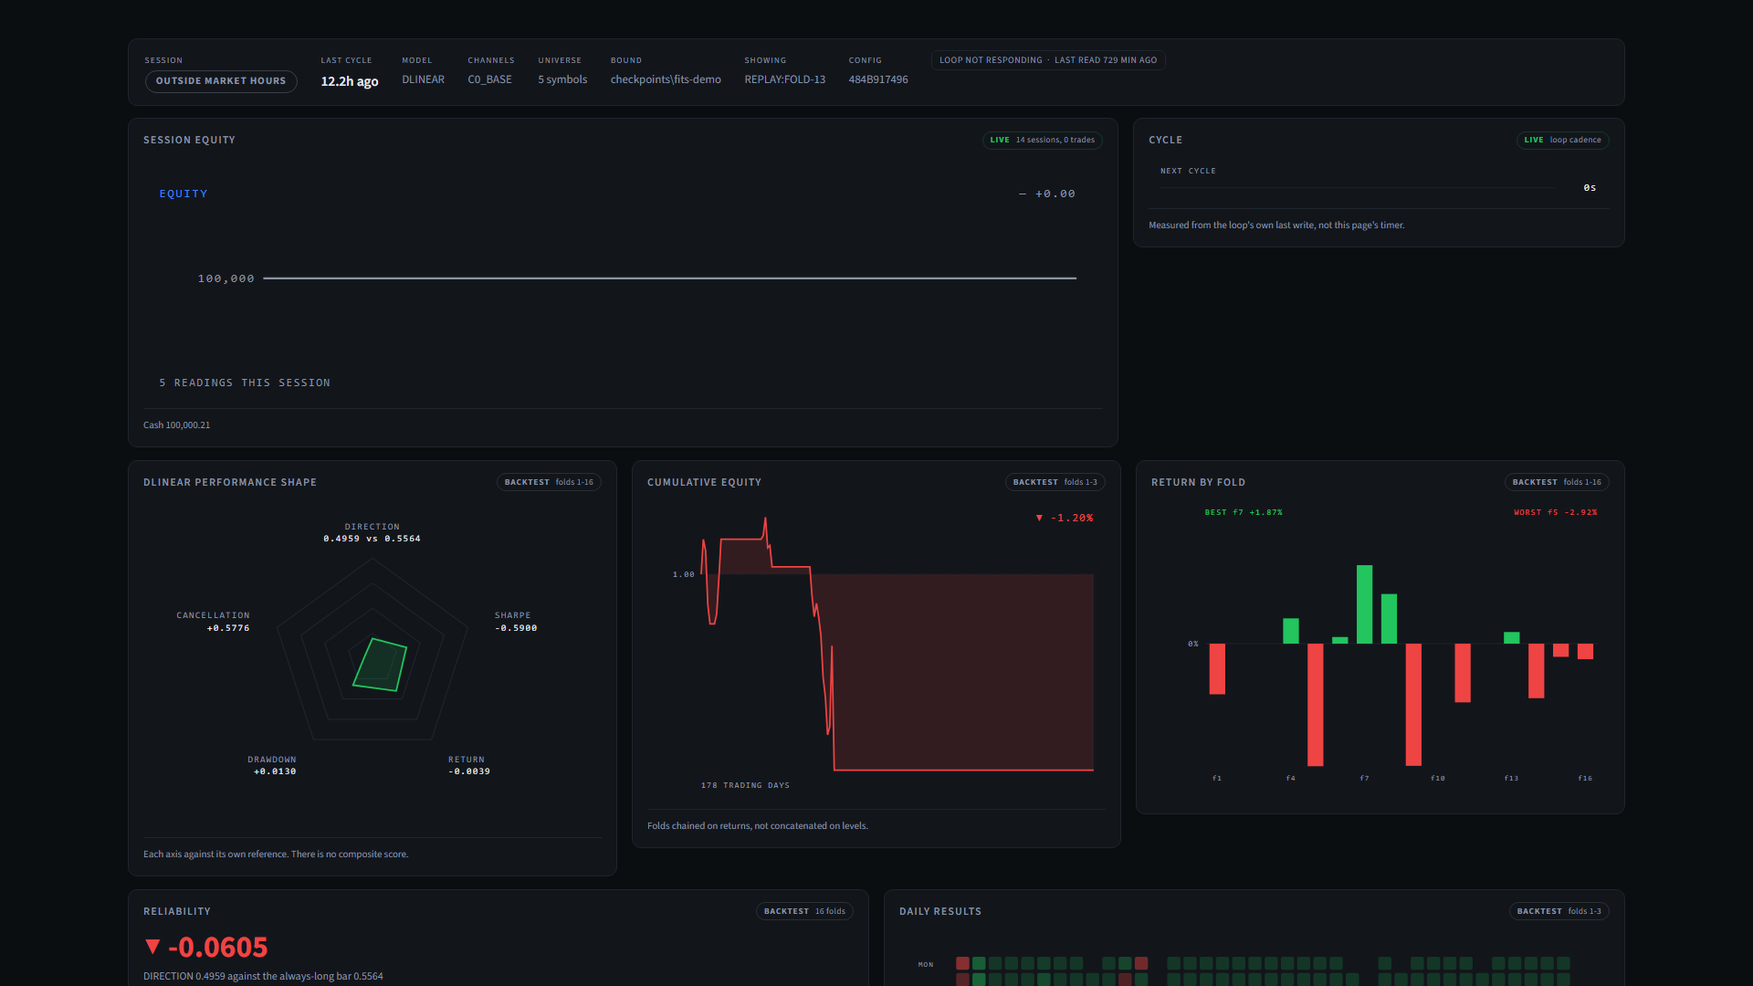
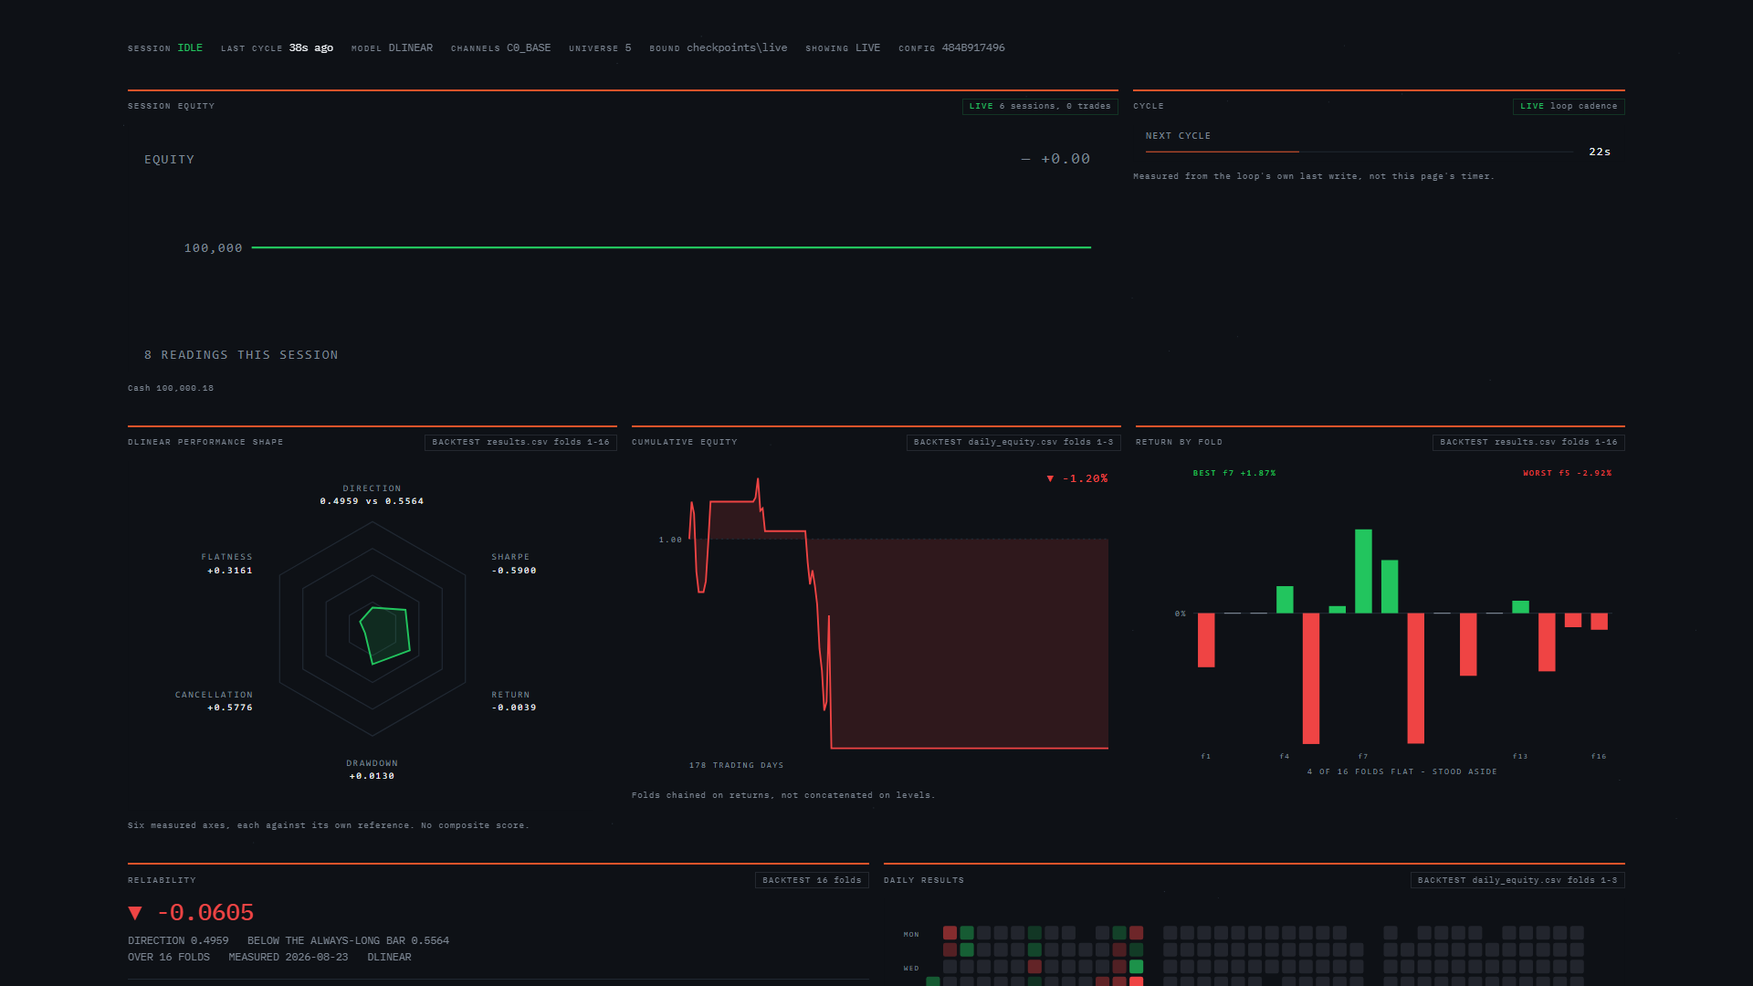
GB-63c region 8: the captures, against a session that actually ran
Last of eight. Six frames at 1920x1080, five against checkpoints/live during a
real session on 1 Sep that decided bar 2026-08-31, one against a FITS replay
because the deployed arm is DLinear and does not produce a frequency
decomposition.

The activity region gets a frame of its own. It is the reason this variant was
chosen and it was below the fold in the overview - a signature feature that
goes unphotographed is a feature the report does not have.

THE CAPTURE FOUND A PALETTE VIOLATION THE TESTS DID NOT.

The forecast charts were drawing their price line and their forecast in three
blue ramp colours. The ramp encodes which channel and which band; a price line
and a forecast are neither. The boundary guard checked the radar and the fold
chart and had never looked at forecast_svg - a guard whose substrate was not
the thing being claimed, which is the FakeBroker shape again and the third time
in this rebuild that looking at the output caught what the suite did not.

Price is now DIM and the forecast is dashed in the direction it predicts, green
or red. The guard now ENUMERATES every chart builder the module exports and
fails on an unclassified one, so a new chart must be assigned a side rather
than defaulting to unchecked. `_svg` and spectral's three builders are
classified explicitly rather than skipped.

test_status_colour_never_enters_a_data_encoding_chart is NARROWED, not
loosened. Under the card language "no status colour in any chart" meant every
[…]

diff --git a/tests/dashboard/test_app.py b/tests/dashboard/test_app.py
@@ -321,19 +321,31 @@ def data_surfaces() -> dict[str, str]:
     }
 
 
-def test_status_colour_never_enters_a_data_encoding_chart() -> None:
-    """**Rule one of the three-role palette** (DECISIONS, 27 Aug 2026).
+def test_status_colour_never_enters_a_ramp_chart() -> None:
+    """**Narrowed in GB-63c, and narrowed rather than loosened.**
 
-    Chrome labels, the ramp encodes data, status says gain or loss. Inside a chart the
-    ramp already owns meaning, so a third family there would make a reader ask what green
-    encodes on an axis that is spending colour on frequency. This replaces a test that
-    banned the *strings* "green" and "red" - which would have passed a chart drawn in
-    `#2E9E6B`, since the ban was on the words rather than on the rule.
+    The rule was once "status colour never enters a data-encoding chart", and under the
+    card language that meant every chart. Under Vermillion Slate the ramp survives in
+    exactly two surfaces and green-and-red is the primary language everywhere else - so a
+    forecast dashed in GAIN is now correct rather than a violation, and a test still
+    forbidding it would have to be deleted to let the design through.
+
+    What survives is the part that was always the point: **the two families must not meet
+    inside one chart.** Where the ramp encodes which band, status colour would make a
+    reader ask what green means on an axis already spending colour on frequency.
+    `test_the_ramp_appears_in_no_chart_outside_attribution_and_spectral` holds the other
+    direction.
     """
-    for name, surface in data_surfaces().items():
-        lowered = surface.lower()
-        found = [c for c in app.STATUS_COLOURS if c.lower() in lowered]
-        assert not found, f"{name} encodes data and contains status colour {found}"
+    ramp_charts = {
+        "contributions": app.contributions_svg(
+            an_attribution(close_logret=0.08, rsi14=-0.06)
+        ),
+        "spectral": app.spectral_panel(a_spectral_attribution()),
+    }
+
+    for name, surface in ramp_charts.items():
+        found = [c for c in app.STATUS_COLOURS if c.lower() in surface.lower()]
+        assert not found, f"{name} encodes with the ramp and took status colour {found}"
 
 
 def test_the_data_chart_rule_can_fail(monkeypatch) -> None:
@@ -1806,3 +1818,87 @@ def test_the_forecast_region_states_that_the_bar_advances_once_per_day() -> None
 
     assert "Last completed bar" in source
     assert "advances once per trading day" in source
+
+
+def test_the_ramp_appears_in_no_chart_outside_attribution_and_spectral() -> None:
+    """**The boundary guard, with the hole closed.**
+
+    The earlier version checked the radar and the fold chart, and the forecast chart -
+    which was drawing its price line and its forecast in three ramp colours - was not in
+    the list. A guard that names its surfaces will always be one surface behind the code;
+    this one enumerates every chart builder the module exports and fails on an
+    unclassified one, so a new chart must be assigned a side rather than defaulting to
+    unchecked.
+    """
+    import pandas as pd
+
+    history = pd.Series([100.0, 101.0, 99.5, 102.0, 103.5])
+    reference = app.reference_rows(app.load_results())
+    daily = app.load_daily_equity()
+    row = app.PositionRow(
+        "AAPL", 1.0, 100.0, 97.0, True, stop_loss=94.0, take_profit=112.0
+    )
+
+    ramp_is_meaning = {
+        "contributions_svg": app.contributions_svg(
+            an_attribution(close_logret=0.08, rsi14=-0.06)
+        ),
+        "spectral_panel": app.spectral_panel(a_spectral_attribution()),
+    }
+    ramp_is_trespass = {
+        "forecast_svg": app.forecast_svg(
+            history, app.price_path(103.5, [0.01]), Thresholds(lower=0.004), "AAPL"
+        ),
+        "equity_svg": _equity([100.0, 101.0, 99.0]),
+        "countdown_svg": app.countdown_svg(30, 60),
+        "sparkline_svg": app.sparkline_svg(history, row),
+        "radar_svg": app.radar_svg(reference, "dlinear") if not reference.empty else "",
+        "fold_bars_svg": (
+            app.fold_bars_svg(reference, "dlinear") if not reference.empty else ""
+        ),
+        "cumulative_equity_svg": app.cumulative_equity_svg(daily, "dlinear"),
+        "calendar_svg": app.calendar_svg(daily, "dlinear"),
+    }
+
+    # Every chart builder the module exports is on one side or the other. A new one that
+    # is on neither fails here, which is the point: unclassified must not mean unchecked.
+    charted = {name for name in dir(app) if name.endswith("_svg")} | {"spectral_panel"}
+    classified = (
+        set(ramp_is_meaning)
+        | set(ramp_is_trespass)
+        # Spectral's three builders are one surface: `spectral_panel` above renders them
+        # together, so checking each would assert the same thing three times.
+        | {"spectral_svg", "gain_phase_svg", "response_svg"}
+        # `_svg` is the shared wrapper every chart is built with, not a chart.
+        | {"_svg"}
+    )
+    assert (
+        charted <= classified
+    ), f"unclassified chart builders: {sorted(charted - classified)}"
+
+    for name, svg in ramp_is_meaning.items():
+        assert any(c in svg for c in app.RAMP), f"{name} lost the ramp it needs"
+        assert not [
+            c for c in app.STATUS_COLOURS if c in svg
+        ], f"{name} took status colour"
+
+    for name, svg in ramp_is_trespass.items():
+        assert not [c for c in app.RAMP if c in svg], f"the ramp escaped into {name}"
+
+
+def test_the_forecast_is_dashed_in_the_direction_it_predicts() -> None:
+    """A forecast is a direction, so it takes the status colour of the move it predicts.
+    The history behind it is context and takes DIM."""
+    import pandas as pd
+
+    history = pd.Series([100.0, 101.0, 99.5, 102.0, 103.5])
+    rising = app.forecast_svg(
+        history, app.price_path(103.5, [0.01]), Thresholds(lower=0.004), "AAPL"
+    )
+    falling = app.forecast_svg(
+        history, app.price_path(103.5, [-0.01]), Thresholds(lower=0.004), "AAPL"
+    )
+
+    assert app.GAIN in rising and app.LOSS not in rising
+    assert app.LOSS in falling and app.GAIN not in falling
+    assert app.DIM in rising, "the price history is context, not a value"

diff --git a/glassbox/dashboard/app.py b/glassbox/dashboard/app.py
@@ -1410,7 +1410,7 @@ def forecast_svg(
         f"{x_at(i):.1f},{y_at(float(v)):.1f}" for i, v in enumerate(history)
     )
     body.append(
-        f'<polyline points="{history_points}" fill="none" stroke="{RAMP[2]}" '
+        f'<polyline points="{history_points}" fill="none" stroke="{DIM}" '
         'stroke-width="1.5"/>'
     )
 
@@ -1419,13 +1419,20 @@ def forecast_svg(
     path_points = " ".join(
         f"{x_at(offset + i):.1f},{y_at(v):.1f}" for i, v in enumerate(joined)
     )
+    # **The ramp used to draw this chart, and it had no business here.** It encodes which
+    # channel and which band; a price line and a forecast are neither. The forecast is a
+    # direction, so it takes the status colour of the move it predicts, and the history is
+    # context, so it takes DIM. Found by looking at a screenshot - the boundary test
+    # checked the radar and the fold chart and never looked at this one, which is a guard
+    # whose substrate was not the thing being claimed.
+    direction = joined[-1] - joined[0]
     body.append(
-        f'<polyline points="{path_points}" fill="none" stroke="{RAMP[4]}" '
-        'stroke-width="2" stroke-dasharray="4 3"/>'
+        f'<polyline points="{path_points}" fill="none" '
+        f'stroke="{status_colour(direction)}" stroke-width="2" stroke-dasharray="4 3"/>'
     )
     body.append(
         f'<circle cx="{x_at(len(values) - 1):.1f}" cy="{y_at(joined[-1]):.1f}" r="3" '
-        f'fill="{RAMP[5]}"/>'
+        f'fill="{status_colour(direction)}"/>'
     )
     body.append(_rule(x_at(offset), top, x_at(offset), top + plot_h, ORANGE_DIM, "2 3"))
 

diff --git a/report/screenshots/CAPTIONS.md b/report/screenshots/CAPTIONS.md
@@ -1,110 +1,129 @@
-# Dashboard screenshots — captions for the architecture report
+# Console screenshots — captions for the architecture report
 
 Real captures at 1920×1080 through headless Chromium against a running Streamlit instance.
-Not mock-ups, and not full-page strips: each frame is what a reader sees.
+Not mock-ups: each frame is what a reader sees.
 
-The console was rebuilt on 28 August 2026 (GB-63b). The previous blueprint language —
-registration marks, numbered rulers, dashed panels, a PROJECT/SYSTEM/VERSION masthead — is
-gone. Cards on a near-black ground, green for gain and red for loss.
+The console was restyled on 1 September 2026 (GB-63c) into **Vermillion Slate**. No cards,
+no boxes, no fills: everything sits on `#0E1116`, separated by three rule weights and
+whitespace. One monospace family throughout. Vermillion `#E8542A` is chrome only — section
+rules and active states — and never expresses a value; green and red do that.
 
-> **PROVISIONAL — these five figures must be re-captured after GB-61's grid run.**
-> They were taken against a **3-fold** `report/daily_equity.csv`, generated deliberately
-> so the cumulative-equity and calendar cards would render at all: the artefact is new in
-> GB-63b and no full grid has produced one yet. Their pills say `folds 1-3` and are
-> correct, but the real artefact will carry sixteen and the two cards will look different.
-> The other three cards, and every live panel, are unaffected. Do not leave report figures
-> standing that show an artefact which no longer exists.
+Every text colour clears WCAG AA against the ground, computed rather than quoted:
+text 16.99:1, gain 8.30, dim 5.19, accent 5.16, loss 5.03. The starfield sits deliberately
+below the threshold of notice at 1.57:1 and 1.94:1 — if you can find a star in these frames
+while reading a number, it is too strong.
 
-All captures are against `checkpoints/fits-demo`, a replay of **fold 13** written by
-`smoke_offline --model fits --prepare-replay 13` and driven by `replay --model fits`:
+> **PROVISIONAL in one respect only.** The cumulative-equity and calendar regions read a
+> **3-fold** `report/daily_equity.csv`; their pills say `folds 1-3` and are correct. GB-61's
+> grid will produce the full sixteen and those two regions will change. Everything else —
+> the live regions, the radar, the fold chart, the reliability figure — is final.
 
-    streamlit run glassbox/dashboard/app.py -- \
-        --state-dir checkpoints/fits-demo --source replay:fold-13
+Captures 01–04 and 06 are against **`checkpoints/live`**, during a real session on
+1 September that decided bar `2026-08-31`. Capture 05 needs a FITS arm, which the deployed
+configuration does not run, so it comes from a replay:
+
+    streamlit run glassbox/dashboard/app.py -- --state-dir checkpoints/live --source live
+    streamlit run glassbox/dashboard/app.py -- --state-dir checkpoints/fits-demo \
+        --source replay:fold-13
 
 ---
 
 ### 01-overview.png — the console
 
-Row 1 is what is happening now; rows 2 and 3 are what was measured. **Every card carries a
-source pill and no card mixes sources**, because this system has made two live trades and
-stands aside on most bars while the backtest has 166 trades over sixteen folds. A console
-that filled a calendar with backtest results while looking live would discredit the one
-claim the project is actually making.
+The status strip is one line: session state, last cycle, model, channels, universe, the
+**bound state directory**, the provenance being shown, and the config hash. The bound
+directory is there because of a real failure — on 27 August the panel read
+`checkpoints/live` while a rehearsal wrote to `checkpoints/rehearsal`, its Co-Pilot queue
+rendered empty and correct, and GATE 2's criterion 2 had to be satisfied through the API
+instead. An empty queue and no recommendations are indistinguishable unless the panel says
+which directory it read.
 
-The session strip states the **bound state directory** — `checkpoints\fits-demo` — beside
-the provenance it is filtering for. That defect cost GATE 2 its panel path: on 27 August
-the dashboard was bound to `checkpoints/live` while the rehearsal wrote to
-`checkpoints/rehearsal`, its Co-Pilot queue rendered empty and correct, and criterion 2 had
-to be satisfied through the API instead.
+**The two pills in the middle row disagree, and that is the design working.** The radar and
+the fold chart read `results.csv` and say `folds 1-16`; the cumulative equity and the
+calendar read `daily_equity.csv` and say `folds 1-3`. A previous version labelled all four
+with sixteen while two of them held three — a source label describing a different file from
+the one it labels, in the mechanism whose entire purpose is to keep live and backtest apart.
+Each region now derives its range from the frame it actually renders.
 
-`LOOP NOT RESPONDING · LAST READ 729 MIN AGO` is the escalated staleness state: past two
-heartbeat intervals the wording changes from *this number is old* to *the system is not
-running*, because those are different problems. `NEXT CYCLE` is measured from the loop's
-own last write to `book.json`, not from the page's refresh timer — a timer would tick
-smoothly past a dead loop, which is an animation rather than a measurement.
+**The radar has six measured axes and no number under it.** Direction against the
+always-long bar, Sharpe, return, drawdown, cancellation, flatness — each against its own
+reference, each labelled with both. The reference dashboards show a composite "edge score";
+there is no such quantity in this project, and inventing one in a system whose thesis is
+exact attribution would be the opposite of the point.
 
-**Session equity shows a flat line and says `5 READINGS THIS SESSION`.** That is correct
-and it is the common case: the loop stands aside on most bars.
-
-**The radar has no composite score.** Five axes, each a measured metric against **its own**
-reference and labelled with both. The reference dashboard shows an "Edge Score"; there is
-no such quantity here, and inventing one in a system whose thesis is exact attribution
-would be the opposite of the point. DLinear's direction axis reads 0.4959 against the
-always-long bar's 0.5564 — the shape is small because the measurements are.
-
-**Reliability is large, red, and unavoidable**: `▼ -0.0605`. A console that showed P&L
+**Reliability is the largest figure on the page and it is red.** `▼ -0.0605`: direction
+0.4959 against the always-long bar's 0.5564, over sixteen folds. A console that showed P&L
 while hiding how often the decider is right would be the black box this project exists to
-oppose, and this one's answer is that it does not beat the always-long bar.
+oppose. Beneath it the band states that it **fires** — fold 16, validation Sharpe +0.483
+over 8 trades, a grid maximum of fifteen candidates — because the record says how good the
+forecast was and the band says how selective the system is about acting on it.
 
-Captured under the committed 5-symbol universe, which the strip states. GB-61 will flip
-that to 20 and every backtest number on the page will move.
+`4 OF 16 FOLDS FLAT - STOOD ASIDE` under the fold chart, and `10 UP / 13 DOWN / 152 FLAT`
+under the calendar. Standing aside is most of what this system does, and the figures say so
+rather than leaving a reader to infer it from empty space.
 
-Note the two pills in row 2 differ: the radar and the fold chart read `results.csv`
-(**folds 1-16**) while the cumulative equity and calendar read `report/daily_equity.csv`
-(**folds 1-3**, a partial artefact). A card states the range of its own data, never the
-page's.
+### 02-activity-rows.png — the row language
 
-### 02-forecast-path.png — the forecast against the entry threshold
+**Two independent channels in one row.** A 2px left border states what the system did; the
+numerals state which way it went. The border is an *accent* on a fact the row already
+carries in words — the WHAT column reads `HOLD` — so a reader who cannot resolve the colour
+loses nothing, which is what `test_action_is_recoverable_from_the_row_text` holds.
 
-Per-symbol close history, the calibrated entry threshold as a dashed rule, `NOW` marking
-the last completed bar, and the forecast continuing past it as a dashed segment. The
-caption above the row states it plainly: **the price line advances once per trading day** —
-a decision is taken on the last completed bar and does not change within a session. Nothing
-here is styled to imply a live feed, because there is not one.
+Every row here is `HOLD` at the dim rule, because the deployed band evaluated bar
+`2026-08-31` and declined on all five symbols. That is the honest state of this system and
+not a gap in the figure: `enter_long` takes green, `exit` takes red, and a rehearsal or
+replay row takes vermillion, since provenance is a fact *about* a row rather than something
+the system decided.
 
-### 03-decision-log-attribution.png — exact attribution, per channel
+The trend values carry `▲` and `▼` beside the colour. Green and red are never the only
+carrier of a sign.
 
-One decision expanded: the narrative in plain language, then `PER-CHANNEL CONTRIBUTION` as
-signed bars summing to the forecast, with the cancellation line stating how much of the
-gross view survived. Under FITS the model is univariate, so `close_logret` carries 100.0%
-and the other four channels sit at 0.0% — the architecture visible in the panel.
+### 03-forecast-path.png — the forecast against the entry threshold
 
-Attribution is algebra, not approximation: across the 67 records behind these captures the
-worst `|sum(per_channel) − forecast_total|` is **2.551e-09** against the 1e-5 contract.
+Price history in `--dim`, the calibrated entry threshold as a dashed vermillion rule, and
+the forecast continuing past the last completed bar dashed in **green or red by the
+direction it predicts** — GOOGL and NVDA up, AAPL, AMZN and MSFT down.
 
-### 04-spectral-fits.png — the spectral panel, under FITS
+**These charts drew in the blue ramp until this capture was taken.** The ramp encodes which
+channel and which frequency band; a price line and a forecast are neither. It was found by
+looking at a screenshot, because the boundary test checked the radar and the fold chart and
+had never looked at the forecast chart — a guard whose substrate was not the thing being
+claimed. The test now enumerates every chart builder the module exports and fails on an
+unclassified one.
 
-**FITS is not the deployed arm.** The strip in 01 reads `MODEL DLINEAR` and that is
-correct: the deployed configuration runs DLinear, and this panel exists because fold 13 was
-replayed under FITS specifically so the frequency decomposition could be shown at all.
-Nothing in this frame describes what the live system is currently doing.
+Each region states `Last completed bar 2026-08-31 · advances once per trading day`. The
+model consumes completed daily bars and this subscription refuses intraday quotes, so
+nothing is styled to imply a live feed.
 
-All 24 frequency contributors with the RIN mean as its own row, and the panel refusing to
-be read as a dominant-cycle story: `NO SINGLE CYCLE CARRIES THIS FORECAST — STRONGEST IS
-12.1% OF 24 CONTRIBUTORS`. Below it, gain and phase in days rather than radians.
+### 04-attribution.png — exact attribution, per channel
 
-**This is the blue ramp's remaining territory.** It encodes *which band* — a quantity, not
-a direction — and appears only inside the attribution and spectral panels. No green or red
-appears in this frame; tests hold both directions of that boundary.
+One decision expanded: the narrative, then signed contribution bars summing to the forecast,
+with the cancellation line stating how much of the gross view survived. Sign is position
+relative to the centre line, never hue.
 
-**The panel had never rendered from a real decision record before 28 August 2026.**
+Attribution is algebra, not approximation: the worst
+`|sum(per_channel) − forecast_total|` across these records is **2.551e-09** against the
+1e-5 contract.
+
+### 05-spectral-fits.png — the spectral panel, under FITS
+
+**FITS is not the deployed arm.** The strip in 01 reads `MODEL DLINEAR`, which is correct;
+this frame comes from a replay of fold 13 under FITS, run specifically so the frequency
+decomposition could be shown at all. Nothing here describes what the live system is doing.
+
+All 24 frequency contributors with the RIN mean as its own row, and the panel refusing to be
+read as a dominant-cycle story: `NO SINGLE CYCLE CARRIES THIS FORECAST — STRONGEST IS 12.1%
+OF 24 CONTRIBUTORS`. Below it, gain and phase in days rather than radians.
+
+**This is the blue ramp's entire remaining territory**, along with the attribution bars in
+04. No green or red appears in this frame; tests hold both directions of that boundary.
+
+The panel had never rendered from a real decision record before 28 August 2026 —
 `explain_spectral` was defined, exported and unit-tested, and had no caller anywhere in
-`glassbox/`, so every decision record carried `per_frequency=None`.
+`glassbox/`, so every record carried `per_frequency=None`.
 
-### 05-reflow-1280.png — the grid at a narrow viewport
+### 06-reflow-1280.png — the layout at a narrow viewport
 
-The same page at 1280×900. The session strip wraps to two lines, the three cards of row 2
-stay side by side and equal-height, and nothing overflows. Equal height comes from
-Streamlit's own column flex — `[data-testid="stColumn"] { display:flex }` with
-`.gb-card { height:100% }` — which is why a card must be a single `st.markdown` call: a
-second call inserts another wrapper and the height chain breaks at it.
+The same page at 1280×900. Sections stack, the status strip wraps, and nothing overflows.
+There is no fixed width anywhere: with no cards to hold a shape, the layout is columns and
+rules, and it reflows because nothing was pinned in the first place.
